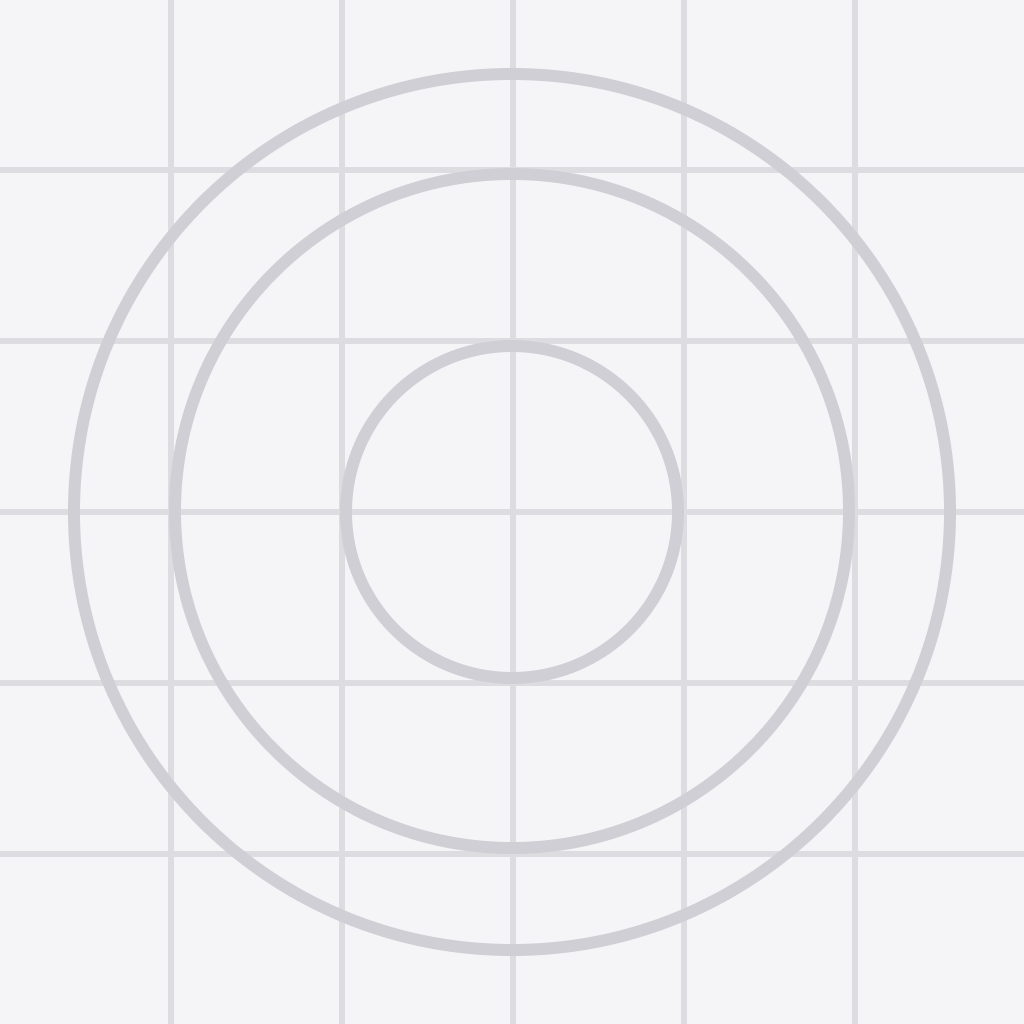
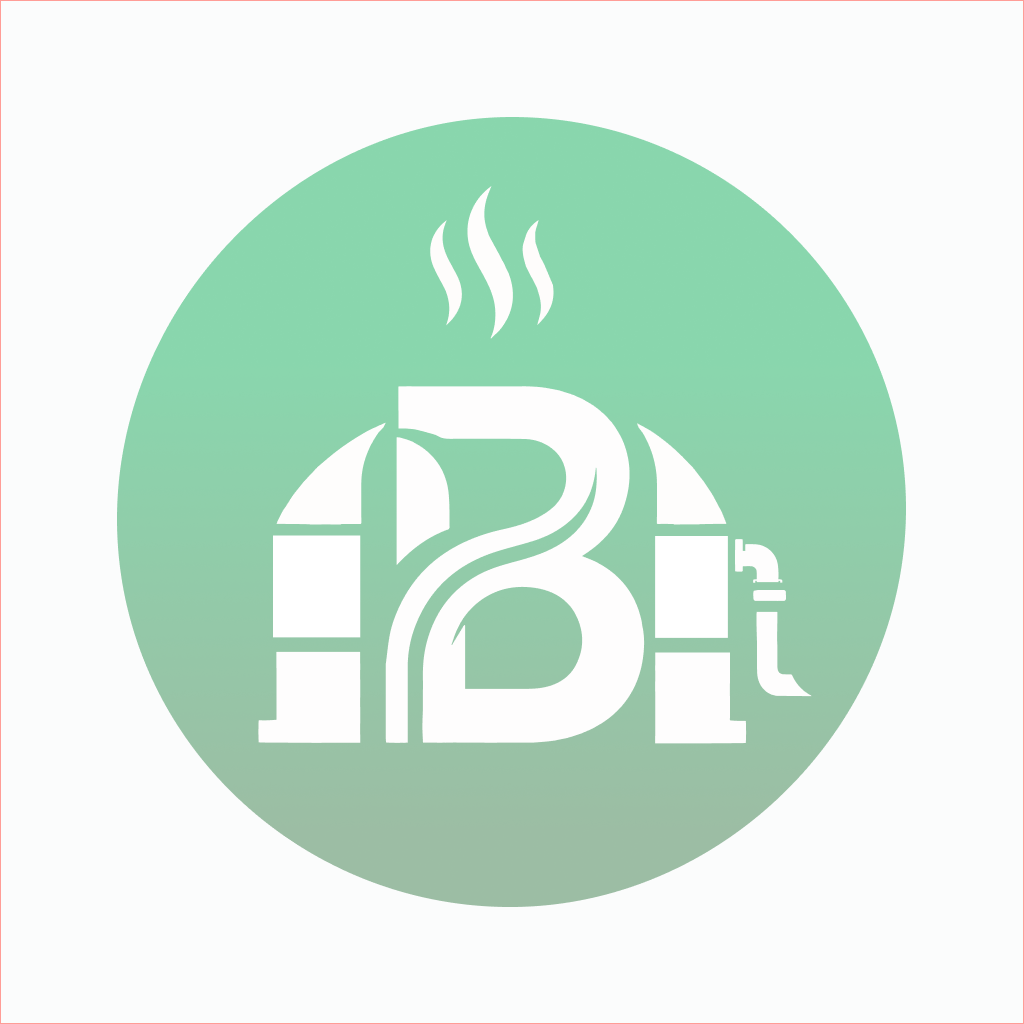
Mudança na tela de splash screen

diff --git a/frontend/my-app/src/shared/components/AppSplash.tsx b/frontend/my-app/src/shared/components/AppSplash.tsx
@@ -1,5 +1,5 @@
 import React, { useEffect, useRef } from 'react';
-import { Animated, StyleSheet } from 'react-native';
+import { Animated, Image, StyleSheet, Text, View } from 'react-native';
 
 interface AppSplashProps {
   onFinish: () => void;
@@ -7,31 +7,108 @@ interface AppSplashProps {
 
 export default function AppSplash({ onFinish }: AppSplashProps) {
   const opacity = useRef(new Animated.Value(1)).current;
+  const logoScale = useRef(new Animated.Value(0.85)).current;
+  const logoOpacity = useRef(new Animated.Value(0)).current;
 
   useEffect(() => {
-    // Exibe a tela branca por 1 segundo e depois faz o fade-out para abrir o app
+    // Animate logo in
+    Animated.parallel([
+      Animated.timing(logoOpacity, {
+        toValue: 1,
+        duration: 500,
+        useNativeDriver: true,
+      }),
+      Animated.spring(logoScale, {
+        toValue: 1,
+        friction: 6,
+        tension: 80,
+        useNativeDriver: true,
+      }),
+    ]).start();
+
+    // After 2 seconds, fade out the entire splash
     const timer = setTimeout(() => {
       Animated.timing(opacity, {
         toValue: 0,
-        duration: 350,
+        duration: 400,
         useNativeDriver: true,
       }).start(() => {
         onFinish();
       });
-    }, 1000);
+    }, 2000);
 
     return () => clearTimeout(timer);
   }, []);
 
   return (
-    <Animated.View style={[styles.container, { opacity }]} />
+    <Animated.View style={[styles.container, { opacity }]}>
+      {/* Center content: logo + app name */}
+      <View style={styles.centerContent}>
+        <Animated.Image
+          source={require('../../../assets/splash-icon.png')}
+          style={[
+            styles.logo,
+            { opacity: logoOpacity, transform: [{ scale: logoScale }] },
+          ]}
+          resizeMode="contain"
+        />
+        <Animated.Text style={[styles.appName, { opacity: logoOpacity }]}>
+          BIOSENSUS
+        </Animated.Text>
+      </View>
+
+      {/* Bottom content: LASTER + copyright */}
+      <View style={styles.bottomContent}>
+        <Text style={styles.lasterText}>LASTER</Text>
+        <Text style={styles.copyrightText}>Todos os direitos reservados</Text>
+      </View>
+    </Animated.View>
   );
 }
 
 const styles = StyleSheet.create({
   container: {
     ...StyleSheet.absoluteFillObject,
-    backgroundColor: '#FFFFFF',
+    backgroundColor: '#14AE5C',
     zIndex: 9999,
+    alignItems: 'center',
+    justifyContent: 'center',
+  },
+  centerContent: {
+    flex: 1,
+    alignItems: 'center',
+    justifyContent: 'center',
+  },
+  logo: {
+    width: 160,
+    height: 160,
+    tintColor: '#FFFFFF',
+  },
+  appName: {
+    marginTop: 16,
+    color: '#FFFFFF',
+    fontSize: 22,
+    fontWeight: '700',
+    letterSpacing: 4,
+    fontFamily: undefined, // uses system font; swap for a custom font if loaded
+  },
+  bottomContent: {
+    paddingBottom: 48,
+    alignItems: 'center',
+    gap: 4,
+  },
+  lasterText: {
+    color: '#FFFFFF',
+    fontSize: 13,
+    fontWeight: '600',
+    letterSpacing: 3,
+    opacity: 0.9,
+  },
+  copyrightText: {
+    color: '#FFFFFF',
+    fontSize: 12,
+    fontWeight: '400',
+    letterSpacing: 0.5,
+    opacity: 0.75,
   },
 });